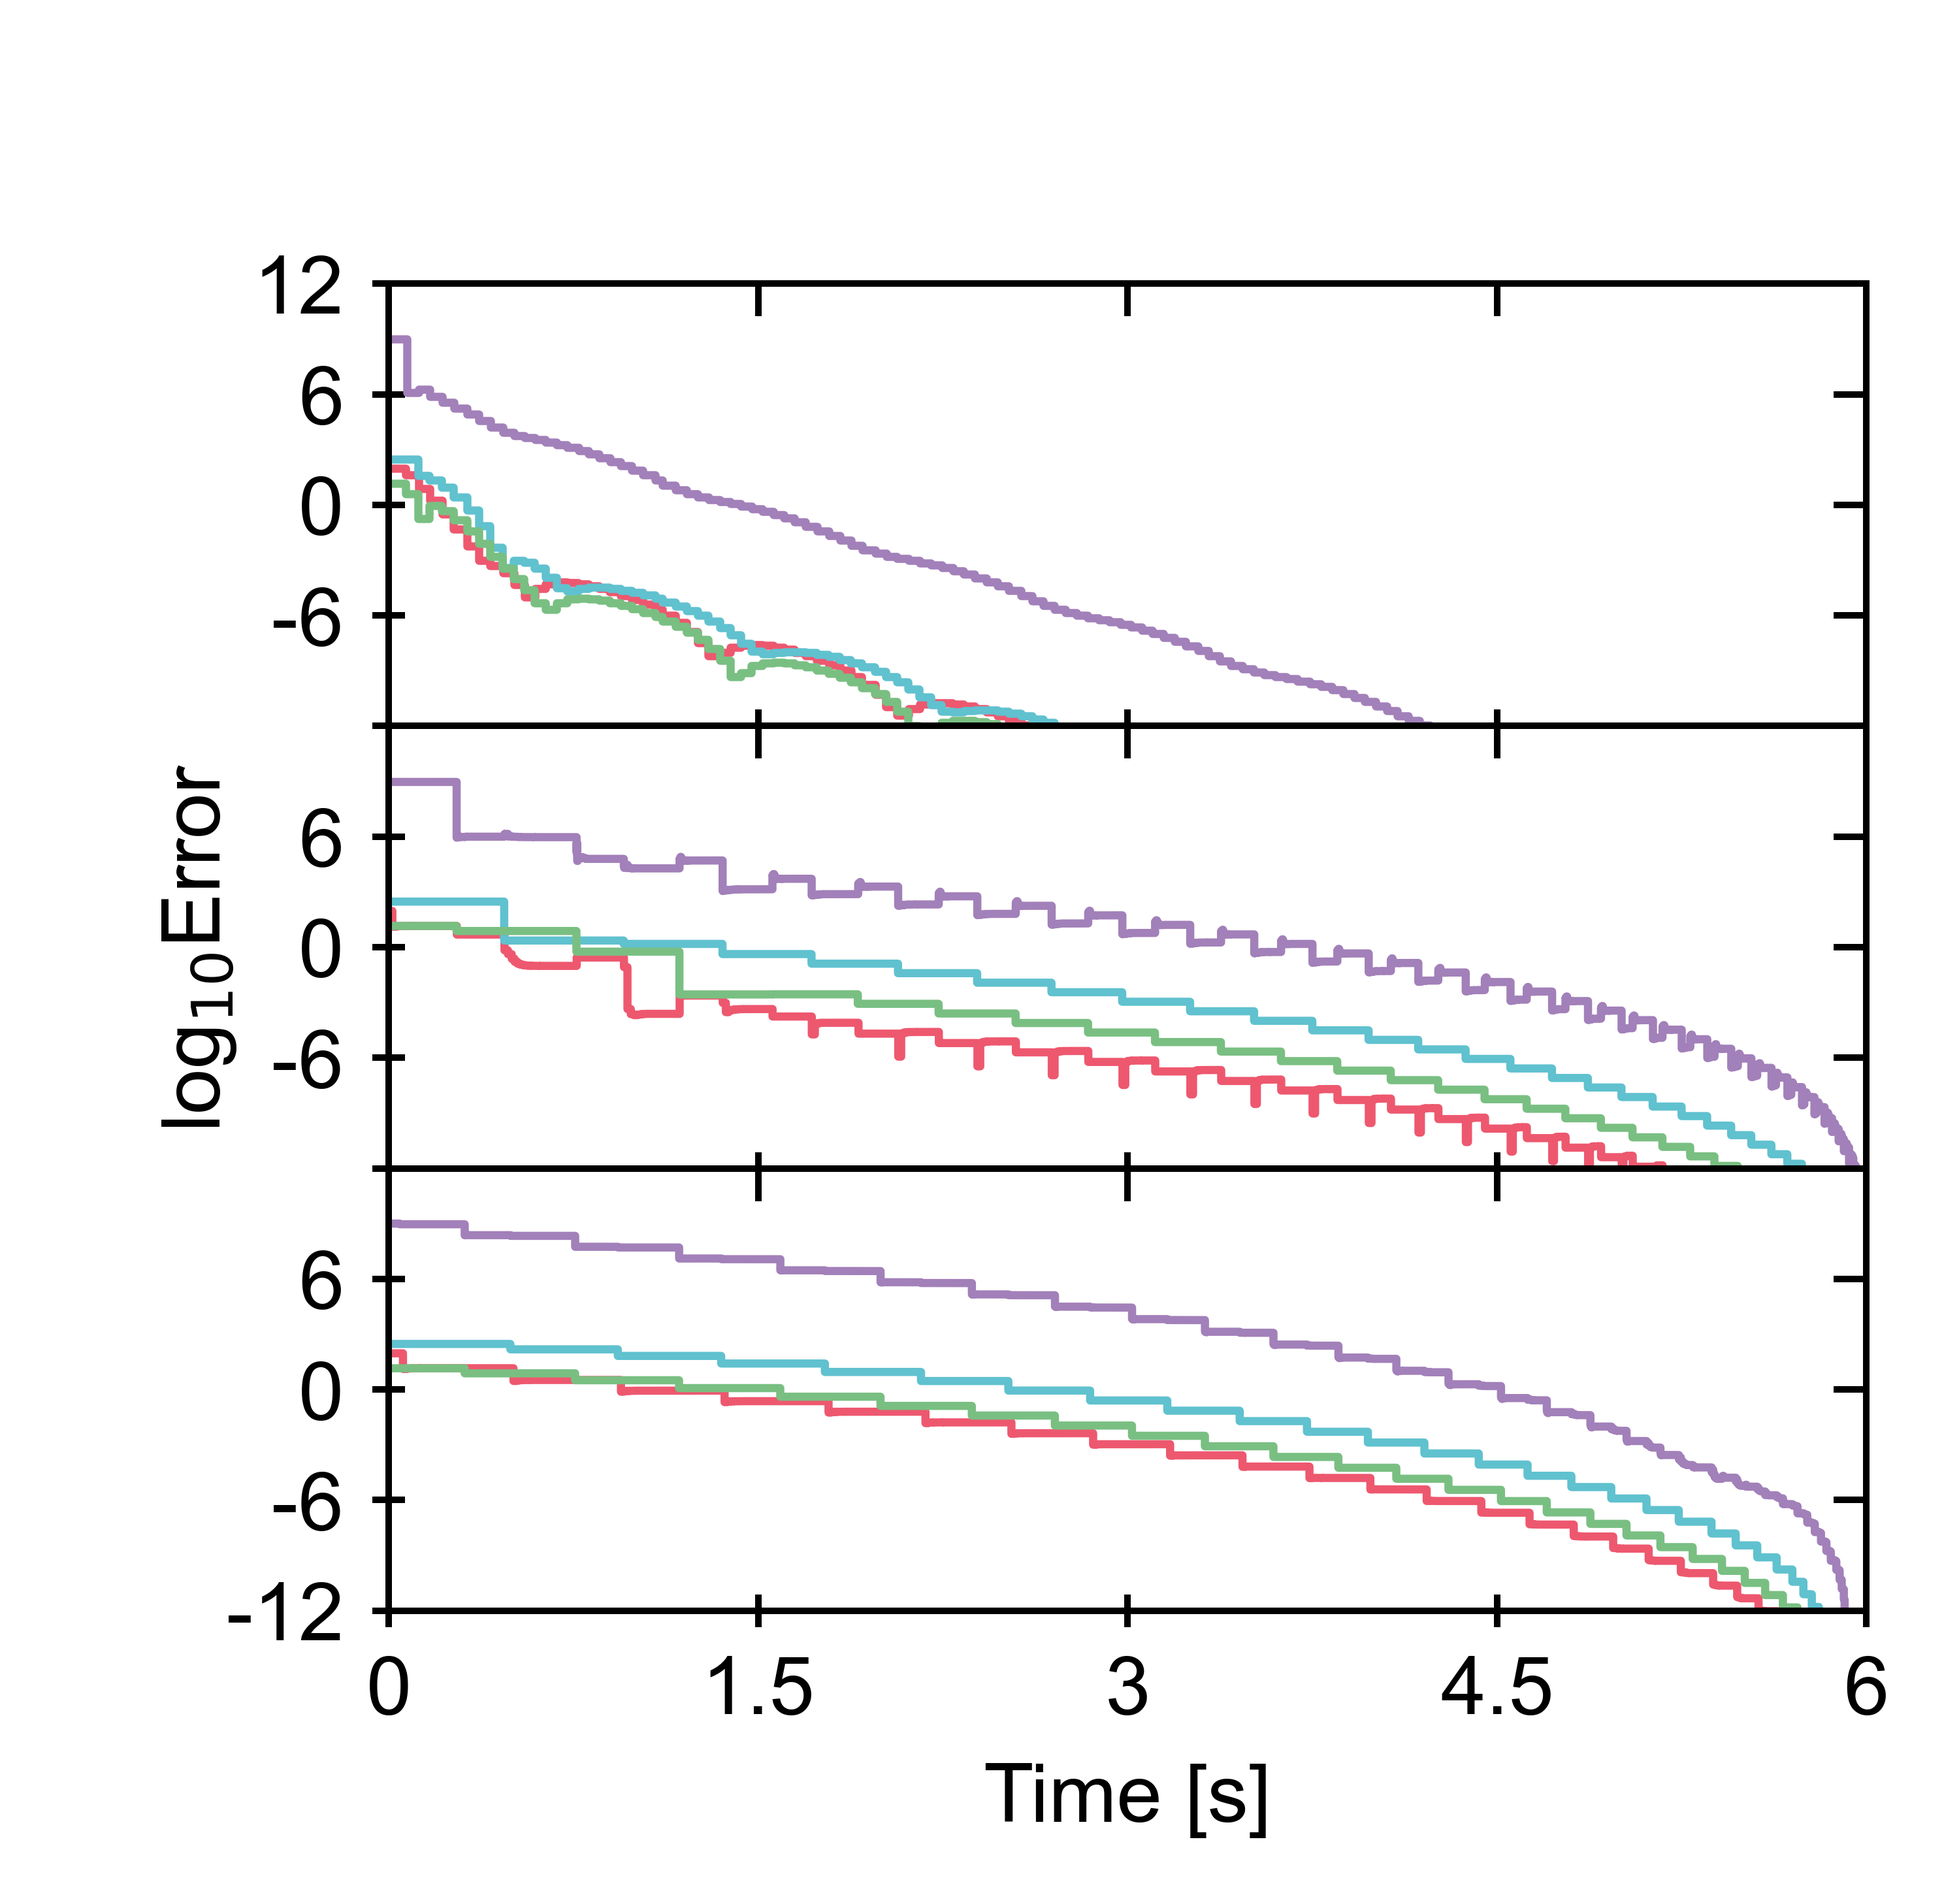
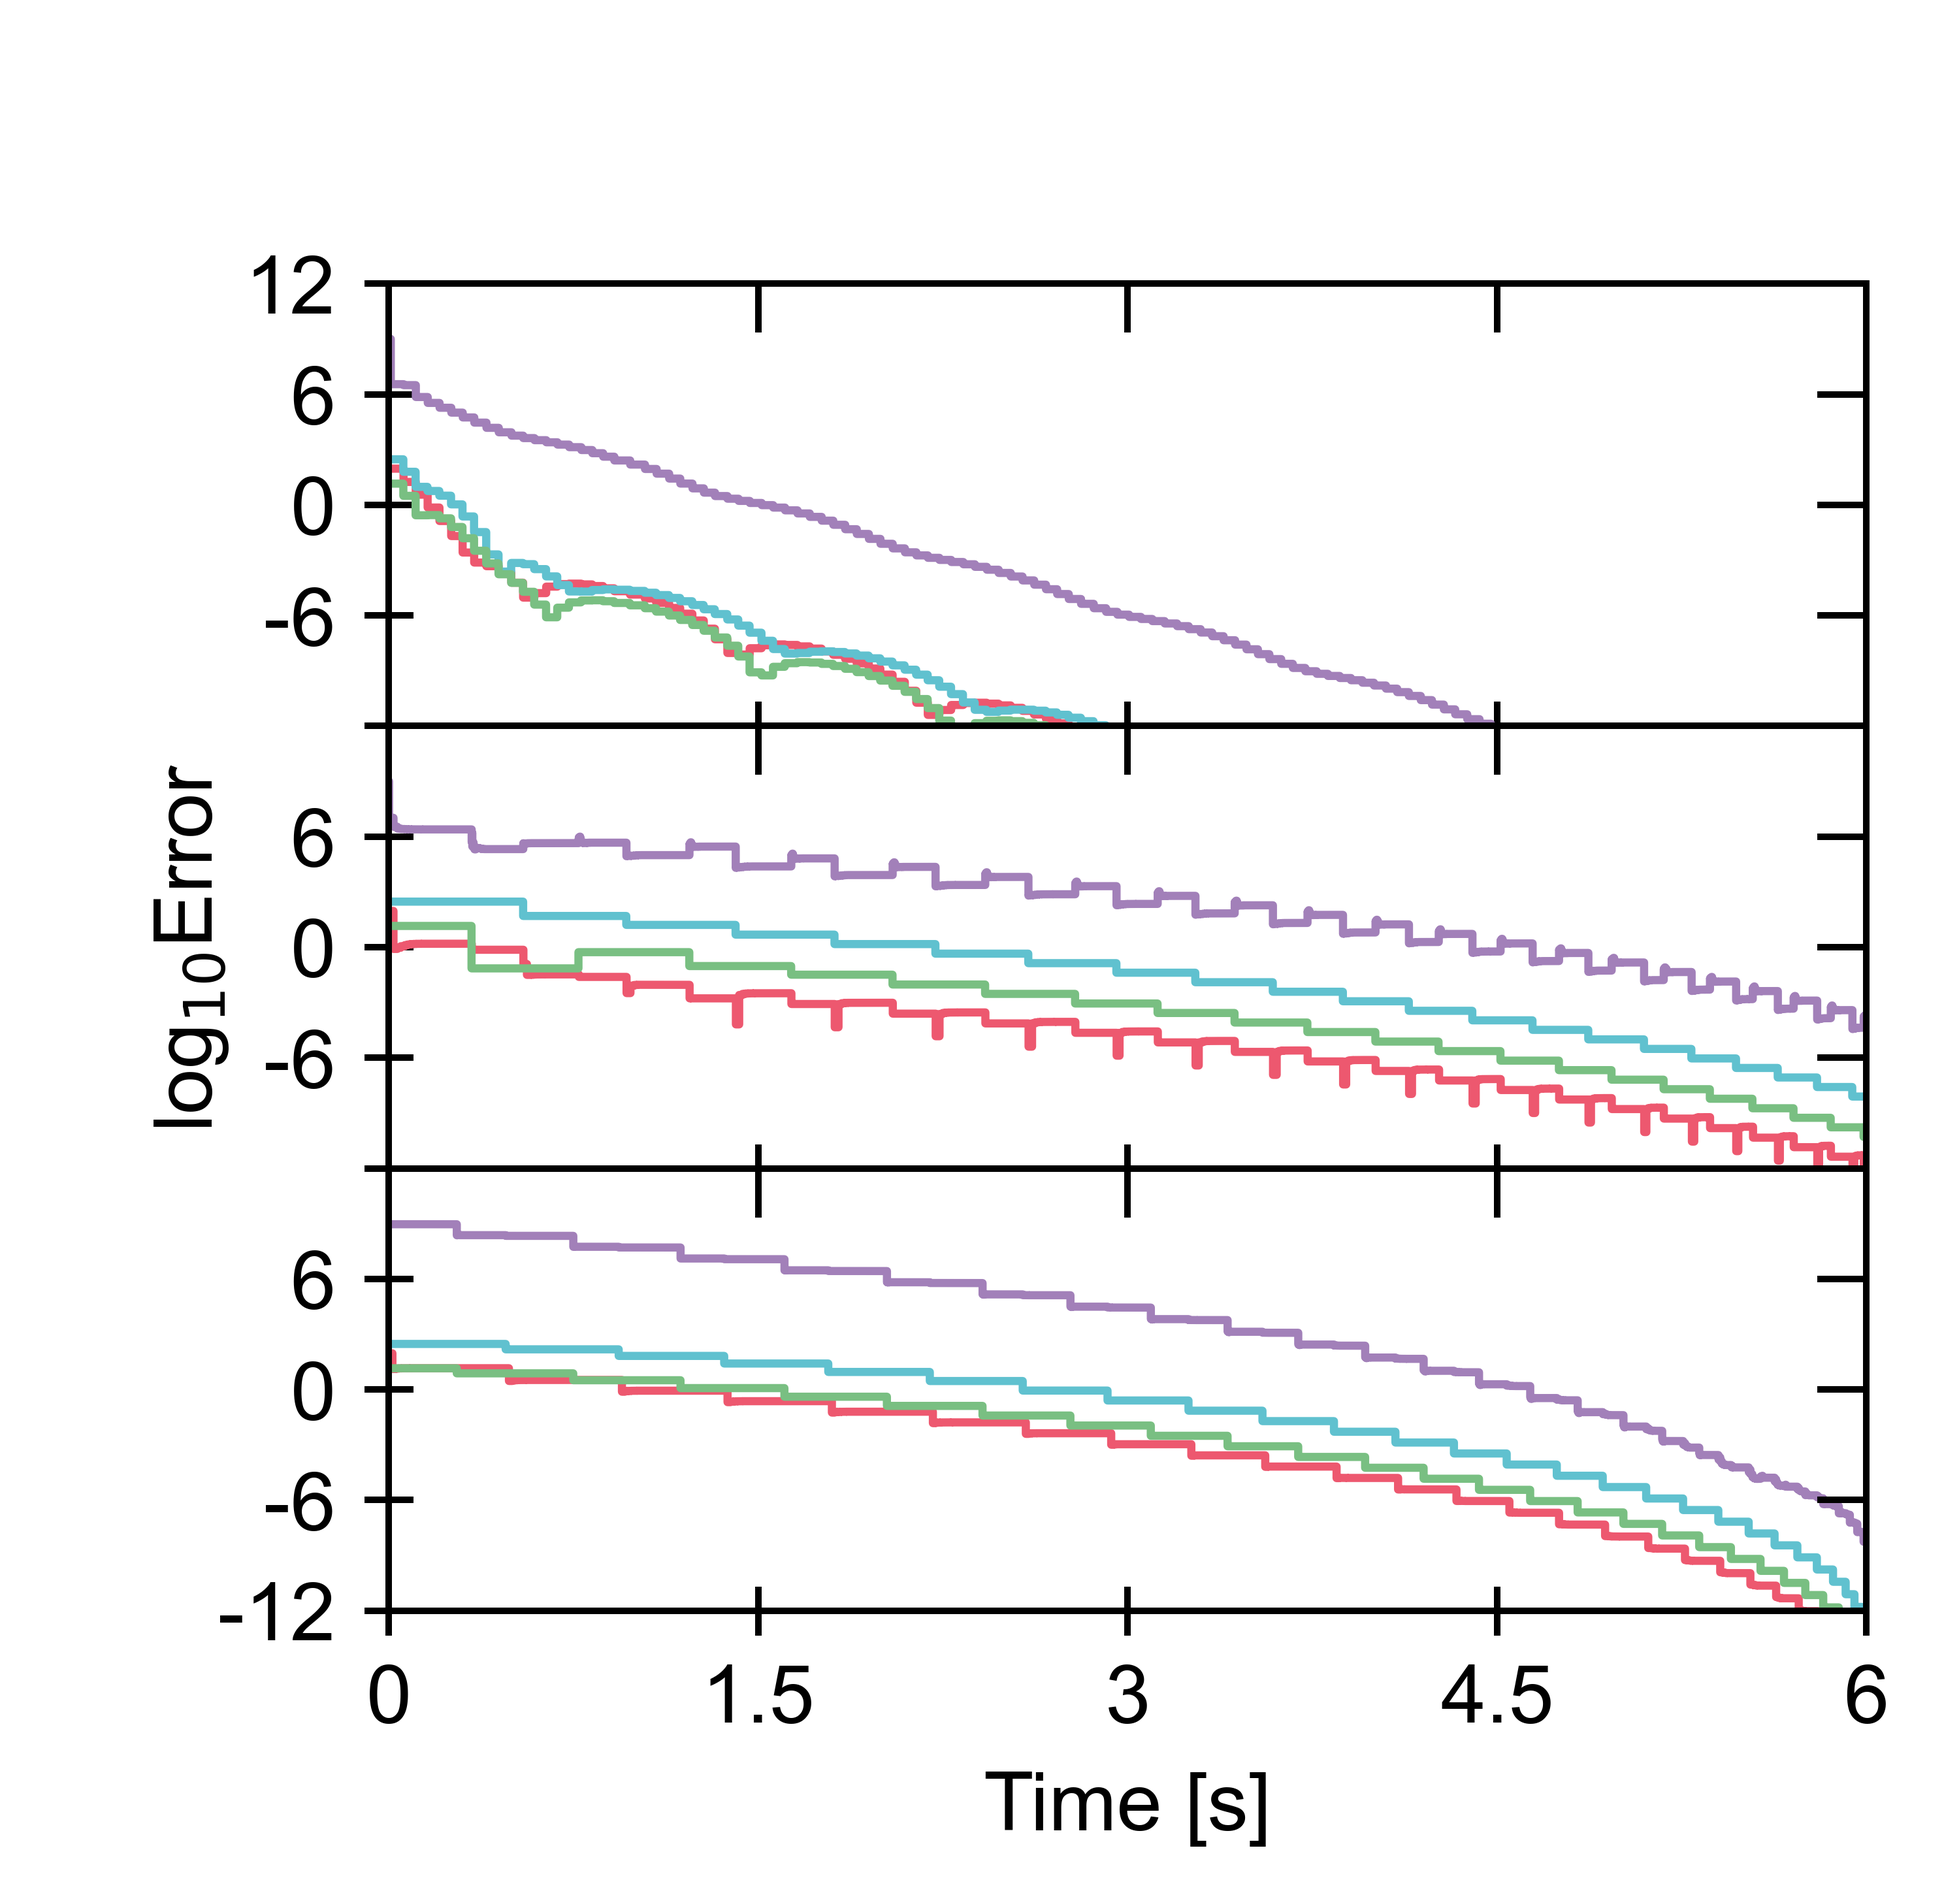
updates for new biosteam version

diff --git a/benchmark/profile.py b/benchmark/profile.py
@@ -60,13 +60,15 @@ bst.System.strict_convergence = False
 bst.System.default_maxiter = 200
 bst.System.default_molar_tolerance = 1e-6
 bst.System.default_relative_molar_tolerance = 1e-6
+bst.MultiStageEquilibrium.default_optimize_result = False
 bst.MultiStageEquilibrium.default_maxiter = 20
 bst.MultiStageEquilibrium.max_attempts = 0 # 0 for tracking
-bst.MultiStageEquilibrium.default_S_tolerance = 1e-9
-bst.MultiStageEquilibrium.default_relative_S_tolerance = 1e-12
+bst.MultiStageEquilibrium.default_molar_tolerance = 1e-9
+bst.MultiStageEquilibrium.default_relative_molar_tolerance = 1e-12
 bst.MultiStageMixerSettlers.default_maxiter = 30 # 50
 bst.MultiStageMixerSettlers.max_attempts = 0
 bst.PhasePartition.B_relaxation_factor = 0.5
+bst.MultiStageEquilibrium.default_methods = {'phenomena': 'fixed-point'}
 # bst.MultiStageEquilibrium.default_fallback = ('sequential', None)
 # bst.MultiStageMixerSettlers.default_fallback = None
 tmo.BubblePoint.maxiter = 100 # -> 50 [-]
@@ -629,6 +631,12 @@ def parse_index(index, dct):
     elif variable == 'S':
         variable = 'Separation factor'
         units = '-'
+    elif variable == 'R':
+        variable = 'Reaction rate'
+        units = 'kmol/hr'
+    elif variable == 'Q':
+        variable = 'Heat'
+        units = 'kJ/hr'
     else:
         raise RuntimeError(f'unknown variable {variable!r}')
     if '.outs[' in index or '.ins[' in index:
@@ -832,7 +840,10 @@ def get_specifications(unit):
     return specifications
 
 def specifications_table(name):
-    sys = create_tracked_system(name, 'sequential modular') 
+    sys = create_tracked_system(name, 'sequential modular')
+    for i in sys.path:
+        i._setup()
+        i.run() # Necessary to update pressures
     specifications = sum([get_specifications(i) for i in sys.units], [])
     index, values = zip(*specifications)
     return pd.DataFrame(
@@ -845,7 +856,7 @@ def save_all_system_reports():
     for i in benchmark_systems_2025: system_report(i)
 
 def system_report(name):
-    file = os.path.join(simulations_folder, f'{name}_specifications_and_steady_state.xlsx')
+    file = os.path.join(simulations_folder, f'{name}_profiles.xlsx')
     writer = pd.ExcelWriter(file)
     sys = create_tracked_system(name, 'sequential modular') 
     for i in sys.streams: i.mol[:] = 1 # Work around so streams do not appear empty.

diff --git a/benchmark/systems/acetic_acid_system.py b/benchmark/systems/acetic_acid_system.py
@@ -426,6 +426,7 @@ def test_simple_acetic_acid_purification_system():
     sm.simulate()
 
 def test_complex_acetic_acid_purification_system():
+    bst.PhasePartition.B_relaxation_factor = 0.5
     # po = create_acetic_acid_complex_system('phenomena-based')
     # po.set_tolerance(mol=1e-3, rmol=1e-3, maxiter=20)
     sm = create_acetic_acid_complex_system('sequential modular')
